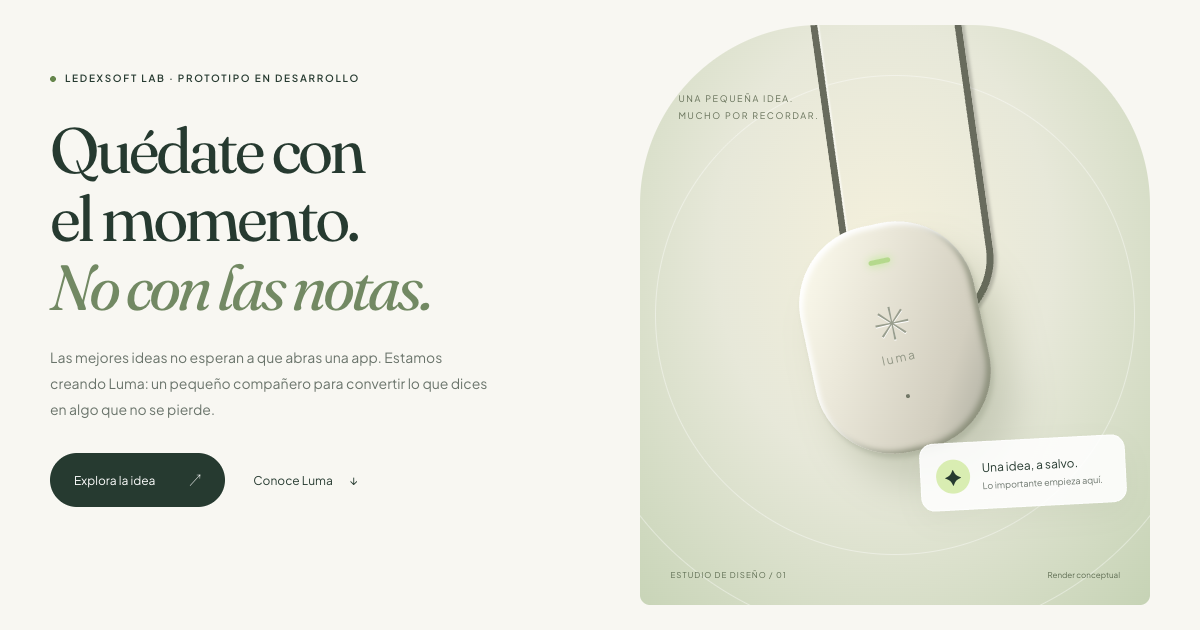
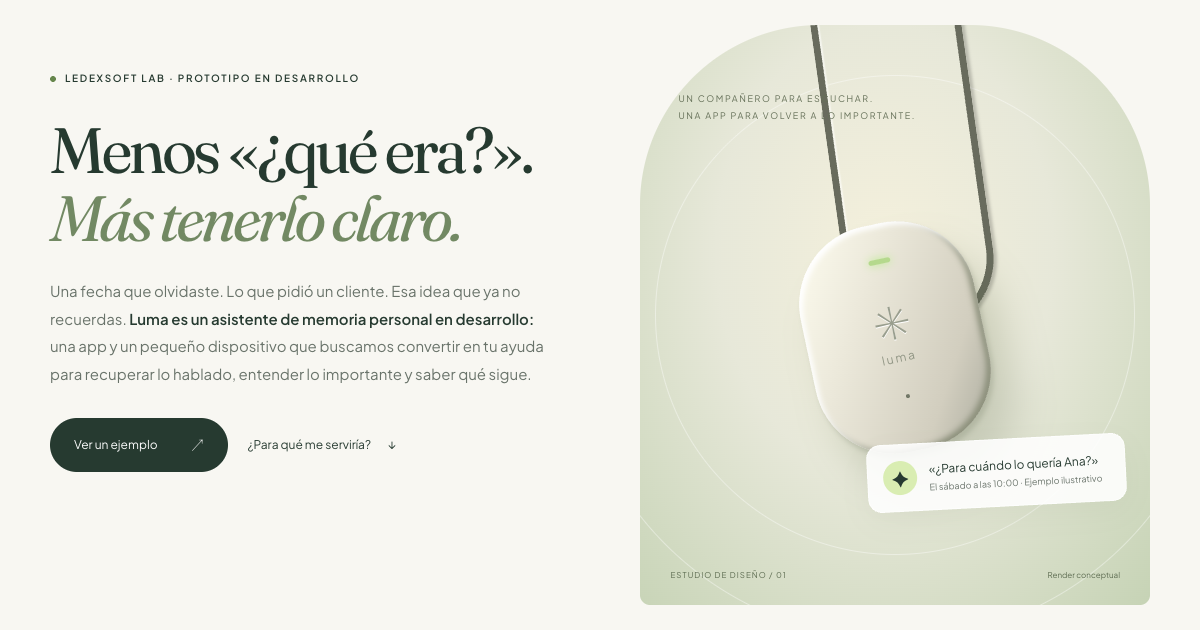
feat: reframe Luma around everyday use cases and demo evidence

diff --git a/luma.html b/luma.html
@@ -2,27 +2,36 @@
 <html lang="es">
 <head>
 <meta charset="utf-8"><meta name="viewport" content="width=device-width, initial-scale=1">
-<title>Luma — Quédate con el momento · LedexSoft</title>
-<meta name="description" content="Conoce Luma, el prototipo de asistente personal de LedexSoft: conversaciones que se convierten en recuerdos, claridad y próximos pasos.">
+<title>Luma — Recuerda lo que importa. Sigue con tu día. · LedexSoft</title>
+<meta name="description" content="Luma, el asistente de memoria en desarrollo de LedexSoft: descubre cómo convertir conversaciones con clientes, clases e ideas en resúmenes y próximos pasos.">
 <link rel="canonical" href="https://ledexsoft.com/luma.html">
-<meta property="og:type" content="website"><meta property="og:site_name" content="LedexSoft"><meta property="og:title" content="Luma — Quédate con el momento"><meta property="og:description" content="Una nueva idea de memoria personal. Descubre el prototipo de LedexSoft."><meta property="og:url" content="https://ledexsoft.com/luma.html"><meta property="og:image" content="https://ledexsoft.com/images/luma-social.png"><meta name="twitter:card" content="summary_large_image">
+<meta property="og:type" content="website"><meta property="og:site_name" content="LedexSoft"><meta property="og:title" content="Luma — Recuerda lo que importa. Sigue con tu día."><meta property="og:description" content="Del «¿qué habíamos acordado?» al siguiente paso. Explora cómo Luma podría ayudarte con clientes, clases y pendientes."><meta property="og:url" content="https://ledexsoft.com/luma.html"><meta property="og:image" content="https://ledexsoft.com/images/luma-social.png"><meta name="twitter:card" content="summary_large_image">
 <link rel="icon" href="favicon.svg" type="image/svg+xml"><link rel="stylesheet" href="css/fonts.css"><link rel="stylesheet" href="css/luma.css"><script src="js/luma.js" defer></script>
 </head>
 <body>
 <a class="skip" href="#contenido">Saltar al contenido</a>
-<header class="nav"><a class="brand" href="luma.html" aria-label="Luma, inicio"><span class="brand-symbol" aria-hidden="true">✳</span> luma<span class="by">by LedexSoft</span></a><button class="menu-toggle" type="button" aria-label="Abrir menú" aria-controls="lumaNav" aria-expanded="false"><span></span><span></span></button><nav id="lumaNav" aria-label="Principal"><a href="#idea">La idea</a><a href="#experiencia">La experiencia</a><a href="#preguntas">Preguntas</a></nav><a class="nav-cta" href="#futuro">Sigue de cerca <span aria-hidden="true">↗</span></a></header>
+<header class="nav"><a class="brand" href="luma.html" aria-label="Luma, inicio"><span class="brand-symbol" aria-hidden="true">✳</span> luma<span class="by">by LedexSoft</span></a><button class="menu-toggle" type="button" aria-label="Abrir menú" aria-controls="lumaNav" aria-expanded="false"><span></span><span></span></button><nav id="lumaNav" aria-label="Principal"><a href="#casos">En tu día a día</a><a href="#experiencia">Prueba la demo</a><a href="#como">Cómo funcionaría</a><a href="#preguntas">Preguntas</a></nav><a class="nav-cta" href="#futuro">Cuéntanos tu caso <span aria-hidden="true">↗</span></a></header>
 <main id="contenido">
 <section class="hero">
-<div class="hero-copy"><span class="eyebrow"><i></i> LEDEXSOFT LAB · PROTOTIPO EN DESARROLLO</span><h1>Quédate con<br>el momento.<br><em>No con las notas.</em></h1><p>Las mejores ideas no esperan a que abras una app. Estamos creando Luma: un pequeño compañero para convertir lo que dices en algo que no se pierde.</p><div class="actions"><a class="button" href="#experiencia">Explora la idea <span aria-hidden="true">↗</span></a><a class="text-link" href="#idea">Conoce Luma <span aria-hidden="true">↓</span></a></div><div class="hero-note"><span class="mini-spark">✳</span> Menos pantalla. Más aquí y ahora.</div></div>
-<div class="hero-art" role="img" aria-label="Ilustración conceptual de un colgante Luma color piedra, con indicador luminoso verde"><span class="art-label">UNA PEQUEÑA IDEA.<br>MUCHO POR RECORDAR.</span><div class="orbit orbit-one"></div><div class="orbit orbit-two"></div><div class="cord"></div><div class="pendant"><div class="pendant-light"></div><span class="pendant-logo">✳</span><span class="pendant-name">luma</span><span class="mic"></span></div><div class="floating-note"><span class="note-icon">✦</span><div>Una idea, a salvo.<small>Lo importante empieza aquí.</small></div></div><span class="art-foot">ESTUDIO DE DISEÑO / 01 <span>Render conceptual</span></span></div>
+<div class="hero-copy"><span class="eyebrow"><i></i> LEDEXSOFT LAB · PROTOTIPO EN DESARROLLO</span><h1>Menos «¿qué era?».<br><em>Más tenerlo claro.</em></h1><p>Una fecha que olvidaste. Lo que pidió un cliente. Esa idea que ya no recuerdas. <strong>Luma es un asistente de memoria personal en desarrollo:</strong> una app y un pequeño dispositivo que buscamos convertir en tu ayuda para recuperar lo hablado, entender lo importante y saber qué sigue.</p><div class="actions"><a class="button" href="#experiencia">Ver un ejemplo <span aria-hidden="true">↗</span></a><a class="text-link" href="#casos">¿Para qué me serviría? <span aria-hidden="true">↓</span></a></div><div class="hero-note"><span class="mini-spark">✳</span> Conversaciones → recuerdos consultables → próximos pasos.</div></div>
+<div class="hero-art" role="img" aria-label="Ilustración conceptual de un colgante Luma color piedra, con indicador luminoso verde"><span class="art-label">UN COMPAÑERO PARA ESCUCHAR.<br>UNA APP PARA VOLVER A LO IMPORTANTE.</span><div class="orbit orbit-one"></div><div class="orbit orbit-two"></div><div class="cord"></div><div class="pendant"><div class="pendant-light"></div><span class="pendant-logo">✳</span><span class="pendant-name">luma</span><span class="mic"></span></div><div class="floating-note"><span class="note-icon">✦</span><div>«¿Para cuándo lo quería Ana?»<small>El sábado a las 10:00 · Ejemplo ilustrativo</small></div></div><span class="art-foot">ESTUDIO DE DISEÑO / 01 <span>Render conceptual</span></span></div>
 </section>
-<div class="promise-strip"><span>Tu voz como punto de partida</span><span aria-hidden="true">✳</span><span>Tu memoria, con contexto</span><span aria-hidden="true">✳</span><span>Tu día, con más espacio</span></div>
-<section class="intro section" id="idea"><span class="eyebrow">01 / UNA MEMORIA MÁS HUMANA</span><div><h2>Hay cosas que merecen<br>quedarse <em>contigo.</em></h2><p>Ese acuerdo al final de una reunión. La idea que apareció caminando. El detalle que te prometiste recordar. Luma nace para ayudarte a volver a ellos, sin dejar de vivir lo que pasa delante de ti.</p></div></section>
-<section class="features section" aria-label="Funciones que estamos explorando"><article><span class="feature-number">01 — CAPTURA</span><span class="feature-icon" aria-hidden="true">≋</span><h3>Deja fluir la conversación.</h3><p>Exploramos una experiencia de captura de voz desde el móvil y un wearable, con control consciente sobre cuándo empieza y termina.</p></article><article><span class="feature-number">02 — COMPRENDE</span><span class="feature-icon" aria-hidden="true">✧</span><h3>Encuentra lo esencial.</h3><p>Resúmenes, ideas y acuerdos en un lugar. Una visión más clara de lo que se habló, sin volver a escuchar todo.</p></article><article><span class="feature-number">03 — RECUERDA</span><span class="feature-icon" aria-hidden="true">↗</span><h3>Convierte ideas en pasos.</h3><p>Consulta tus recuerdos con preguntas naturales y recupera las tareas que surgieron en la conversación.</p></article></section>
-<section class="experience section" id="experiencia"><div class="experience-copy"><span class="eyebrow">02 / ASÍ LO IMAGINAMOS</span><h2>Tu día.<br>Un poco más <em>claro.</em></h2><p>De una conversación a lo que importa. Prueba esta muestra de la experiencia que queremos construir.</p><div class="scenarios" role="group" aria-label="Elegir conversación de ejemplo"><button class="scenario active" data-scene="reunion" aria-pressed="true"><span>01</span> Una reunión de equipo <b>↗</b></button><button class="scenario" data-scene="idea" aria-pressed="false"><span>02</span> Una idea en el camino <b>↗</b></button><button class="scenario" data-scene="estudio" aria-pressed="false"><span>03</span> Una sesión de estudio <b>↗</b></button></div><p class="demo-disclaimer">Demo ilustrativa con contenido ficticio. No activa el micrófono, no graba ni envía tus conversaciones.</p></div><div class="app-demo"><div class="app-top"><span class="brand"><span class="brand-symbol">✳</span> luma</span><span class="demo-pill">VISTA CONCEPTUAL</span></div><div class="app-greeting">Un momento para volver a él.</div><div class="memory-heading"><span id="scene-meta">HOY · 10:30 · 18 MIN</span><h3 id="scene-title">Las ideas ya tienen rumbo.</h3><div class="wave" aria-hidden="true"><i></i><i></i><i></i><i></i><i></i><i></i><i></i><i></i><i></i><i></i><i></i><i></i><i></i><i></i><i></i><i></i><i></i><i></i><i></i><i></i><i></i><i></i><i></i><i></i></div></div><div class="demo-tabs" role="group" aria-label="Ver contenido del recuerdo"><button data-view="resumen" class="active" aria-pressed="true">Resumen</button><button data-view="tareas" aria-pressed="false">Próximos pasos</button></div><div class="demo-content" id="demo-content" aria-live="polite"><span class="content-label">LO ESENCIAL</span><p>El equipo acordó simplificar la primera versión y centrarse en una experiencia de bienvenida más clara.</p><ul><li>Priorizar tres funciones principales.</li><li>Revisar el diseño antes del viernes.</li><li>Probar la propuesta con un grupo pequeño.</li></ul></div><div class="demo-bottom"><span>✧</span> Menos ruido. Más contexto.</div></div></section>
-<section class="quote-section"><span class="eyebrow">TECNOLOGÍA QUE DEJA ESPACIO</span><h2>No necesitas recordarlo todo.<br>Necesitas estar <em>presente.</em></h2><span class="quote-star" aria-hidden="true">✳</span></section>
+<div class="promise-strip"><span>Recuperar un acuerdo</span><span aria-hidden="true">✳</span><span>Salir con un siguiente paso</span><span aria-hidden="true">✳</span><span>Encontrar una idea después</span></div>
+<section class="intro section" id="idea"><span class="eyebrow">TE SUENA, ¿VERDAD?</span><div><h2>No es falta de atención.<br>Es <em>demasiado que retener.</em></h2><p>Escuchas, respondes y sigues con tu día. Horas después, el detalle que parecía imposible de olvidar ya no está. Luma nace para cerrar ese espacio entre una conversación y lo que haces con ella.</p></div></section>
+<section class="pain-grid section" aria-label="Problemas cotidianos"><article><span>01 / LOS DETALLES</span><h3>«¿Me dijo el jueves o el viernes?»</h3><p>Buscar entre audios y mensajes no debería ser el último paso antes de entregar un pedido.</p><b>La idea: recuperar el acuerdo, con su contexto.</b></article><article><span>02 / LOS COMPROMISOS</span><h3>«Quedé en enviárselo. Y se me pasó.»</h3><p>Un compromiso puede perderse entre el final de una llamada y la siguiente cosa urgente.</p><b>La idea: hacer visibles los próximos pasos.</b></article><article><span>03 / LA ATENCIÓN</span><h3>«Estaba anotando y perdí el hilo.»</h3><p>En una clase o una reunión, escribir cada frase compite con entender lo que estás escuchando.</p><b>La idea: volver a lo esencial después.</b></article></section>
+<section class="use-cases section" id="casos"><div class="section-heading"><span class="eyebrow">CINCO MOMENTOS EN LOS QUE TENDRÍA SENTIDO</span><h2>No para recordar más.<br>Para <em>vivir menos pendiente.</em></h2><p>Estos escenarios ilustran la utilidad que buscamos construir. Elige el que más se parece a tu día y explóralo en la demo.</p></div><div class="case-grid">
+<article><span class="case-icon">↗</span><span class="eyebrow">TRABAJO · REUNIONES</span><h3>Termina la reunión.<br>No empieces a reconstruirla.</h3><p><strong>Hoy:</strong> cada persona recuerda un acuerdo distinto y nadie tiene claro quién debía hacer qué.</p><div class="case-result"><span>CON LUMA, LA IDEA ES</span><p>Volver a las decisiones, responsables y fechas que se mencionaron. Revisarlas antes de compartirlas.</p></div><a href="#experiencia" data-case="reunion">Ver el acuerdo y la tarea ↗</a></article>
+<article><span class="case-icon">◎</span><span class="eyebrow">NEGOCIO · CLIENTES</span><h3>Atiende a la persona.<br>Sin perder los detalles del pedido.</h3><p><strong>Hoy:</strong> te dicen cantidad, sabor y hora mientras estás resolviendo otras tres cosas.</p><div class="case-result"><span>CON LUMA, LA IDEA ES</span><p>Consultar «¿qué pidió Ana?» y recuperar los detalles de esa conversación, sin buscarlos en diez notas.</p></div><a href="#experiencia" data-case="cliente">Ver un pedido de ejemplo ↗</a></article>
+<article><span class="case-icon">≋</span><span class="eyebrow">ESTUDIO · CLASES</span><h3>Escucha para entender.<br>Vuelve después para repasar.</h3><p><strong>Hoy:</strong> copiar deprisa deja apuntes incompletos y preguntas que ya no recuerdas.</p><div class="case-result"><span>CON LUMA, LA IDEA ES</span><p>Consultar los conceptos tratados y las tareas mencionadas. Usar el resumen como apoyo, no como sustituto de estudiar.</p></div><a href="#experiencia" data-case="estudio">Explorar una sesión de estudio ↗</a></article>
+<article><span class="case-icon">⌂</span><span class="eyebrow">VIDA DIARIA · PENDIENTES</span><h3>Que un «yo me encargo»<br>no se quede en el aire.</h3><p><strong>Hoy:</strong> prometes recoger algo o llamar a alguien y lo recuerdas cuando ya pasó el momento.</p><div class="case-result"><span>CON LUMA, LA IDEA ES</span><p>Revisar los compromisos que surgieron al hablar y decidir cuáles convertir en tareas.</p></div><a href="#experiencia" data-case="personal">Ver un pendiente cotidiano ↗</a></article>
+<article class="case-wide"><span class="case-icon">✧</span><span class="eyebrow">CREATIVIDAD · IDEAS AL VUELO</span><h3>La buena idea no siempre<br>llega delante del teclado.</h3><p><strong>Hoy:</strong> aparece caminando, piensas «luego lo anoto» y al llegar solo recuerdas que era buena.</p><div class="case-result"><span>CON LUMA, LA IDEA ES</span><p>Decirla en voz alta, guardarla con contexto y encontrar un primer paso cuando tengas tiempo de desarrollarla.</p></div><a href="#experiencia" data-case="idea">Recuperar una idea ↗</a></article>
+</div></section>
+<section class="how section" id="como"><div class="section-heading"><span class="eyebrow">DEL MOMENTO AL RECUERDO</span><h2>Así encajaría<br>en <em>tu rutina.</em></h2><p>El dispositivo sería el punto de captura; la app, el lugar donde revisar y consultar. Este es el flujo que estamos diseñando.</p></div><ol class="how-grid"><li><span>01</span><h3>Eliges qué guardar.</h3><p>Iniciarías la captura desde el móvil o el wearable, con conocimiento y permiso de quienes participan. No se trata de grabarlo todo.</p></li><li><span>02</span><h3>Hablas. Luego revisas.</h3><p>Al terminar, la app organizaría lo hablado en un resumen y posibles tareas. Tú revisarías nombres, fechas y detalles.</p></li><li><span>03</span><h3>Preguntas cuando lo necesitas.</h3><p>«¿Qué quedé en enviar?» o «¿qué pidió Ana?». La meta es recuperar una respuesta vinculada a la conversación de origen.</p></li></ol></section>
+<section class="experience section" id="experiencia"><div class="experience-copy"><span class="eyebrow">PRUÉBALO CON UNA CONVERSACIÓN DE EJEMPLO</span><h2>Lo que se dijo.<br>Lo que <em>te llevas.</em></h2><p>Elige una situación. Lee el fragmento original y cambia entre resumen, próximos pasos y una pregunta de ejemplo. Así puedes ver para qué serviría, no solo imaginarlo.</p><div class="scenarios" role="group" aria-label="Elegir conversación de ejemplo"><button class="scenario active" data-scene="reunion" aria-pressed="true"><span>01</span> Una reunión de equipo <b>↗</b></button><button class="scenario" data-scene="cliente" aria-pressed="false"><span>02</span> Un pedido de una clienta <b>↗</b></button><button class="scenario" data-scene="personal" aria-pressed="false"><span>03</span> Un pendiente familiar <b>↗</b></button><button class="scenario" data-scene="idea" aria-pressed="false"><span>04</span> Una idea en el camino <b>↗</b></button><button class="scenario" data-scene="estudio" aria-pressed="false"><span>05</span> Una sesión de estudio <b>↗</b></button></div><p class="demo-disclaimer">Demo ilustrativa con contenido ficticio. No activa el micrófono, no graba ni envía tus conversaciones.</p></div><div class="app-demo"><div class="app-top"><span class="brand"><span class="brand-symbol">✳</span> luma</span><span class="demo-pill">VISTA CONCEPTUAL</span></div><div class="app-greeting">De la conversación a una respuesta útil.</div><div class="source-fragment"><span class="content-label">LO QUE SE DIJO · EJEMPLO FICTICIO</span><blockquote id="scene-source">«Marta, envía el diseño el jueves. Diego lo revisa el viernes. Para esta versión nos quedamos con tres funciones.»</blockquote></div><div class="memory-heading"><span id="scene-meta">HOY · 10:30 · 18 MIN</span><h3 id="scene-title">El diseño tiene fecha y responsable.</h3><div class="wave" aria-hidden="true"><i></i><i></i><i></i><i></i><i></i><i></i><i></i><i></i><i></i><i></i><i></i><i></i><i></i><i></i><i></i><i></i><i></i><i></i><i></i><i></i><i></i><i></i><i></i><i></i></div></div><div class="demo-tabs" role="group" aria-label="Ver contenido del recuerdo"><button data-view="resumen" class="active" aria-pressed="true">Resumen</button><button data-view="tareas" aria-pressed="false">Próximos pasos</button><button data-view="pregunta" aria-pressed="false">Pregúntale a Luma</button></div><div class="demo-content" id="demo-content" aria-live="polite"><span class="content-label">LO ESENCIAL</span><p>Marta enviará el diseño el jueves y Diego lo revisará el viernes. La primera versión se limitará a tres funciones.</p><ul><li>Alcance: tres funciones en la primera versión.</li><li>Entrega del diseño: Marta, el jueves.</li><li>Revisión: Diego, el viernes.</li></ul></div><div class="demo-bottom"><span>✧</span> Contenido preparado · Revisa siempre los detalles.</div></div></section>
+<section class="day-section section"><div class="section-heading"><span class="eyebrow">UNA JORNADA, MENOS CABOS SUELTOS</span><h2>Su valor no está en grabar.<br>Está en <em>poder volver.</em></h2></div><div class="day-grid"><article><time>09:00</time><h3>Hablas con un cliente.</h3><p>Con su permiso, guardas lo que acuerdan. Sigues atendiendo, sin intentar retener cada detalle.</p></article><article><time>13:30</time><h3>Necesitas confirmar una fecha.</h3><p>Preguntas por ese pedido y vuelves al acuerdo original, en lugar de reconstruirlo de memoria.</p></article><article><time>18:00</time><h3>Cierras el día con claridad.</h3><p>Revisas los pendientes detectados, corriges lo que haga falta y eliges por dónde empezar mañana.</p></article></div><p class="section-caption">Recorrido ilustrativo de la experiencia prevista; no describe funciones disponibles hoy.</p></section>
+<section class="comparison section"><div class="section-heading"><span class="eyebrow">¿POR QUÉ NO SOLO UNA NOTA DE VOZ?</span><h2>Guardar es el principio.<br><em>Encontrar es lo que ayuda.</em></h2></div><div class="comparison-grid"><article><span class="eyebrow">UN AUDIO GUARDADO</span><h3>La información está ahí.<br>Te toca buscarla.</h3><ul><li>Volver a escuchar para encontrar un detalle.</li><li>Separar tú las ideas de los acuerdos.</li><li>Pasar manualmente los pendientes a una lista.</li></ul></article><article><span class="eyebrow">LA EXPERIENCIA QUE BUSCAMOS CON LUMA</span><h3>Ir de una pregunta<br>a un recuerdo concreto.</h3><ul><li>Encontrar el detalle y su conversación de origen.</li><li>Revisar un resumen de lo importante.</li><li>Partir de tareas sugeridas, no de una hoja en blanco.</li></ul></article></div><p class="section-caption">La IA puede omitir o interpretar mal algo. Luma se plantea como apoyo a tu memoria, no como una fuente infalible ni un sustituto de confirmar acuerdos.</p></section>
 <section class="privacy section"><div><span class="eyebrow">03 / CONSTRUIR CON INTENCIÓN</span><h2>Una memoria personal.<br>Énfasis en <em>personal.</em></h2></div><div><p>La confianza no es una función extra. Estos son los principios que guían el diseño de Luma; su implementación forma parte del desarrollo.</p><ul><li><b>Captura con consentimiento.</b><span>Queremos controles claros para iniciar y detener la grabación, y una experiencia que recuerde respetar a quienes participan.</span></li><li><b>Tú decides qué se queda.</b><span>Diseñamos pensando en revisar, gestionar y eliminar tus recuerdos.</span></li><li><b>Claridad desde el principio.</b><span>Antes de abrir pruebas con datos reales, explicaremos cómo se procesan, dónde se guardan y qué servicios intervienen.</span></li></ul></div></section>
-<section class="faq section" id="preguntas"><div><span class="eyebrow">UN POCO MÁS DE CONTEXTO</span><h2>Lo que quizás<br>te <em>preguntas.</em></h2></div><div class="faq-list"><details open><summary>¿Qué es Luma?</summary><p>Es un prototipo en desarrollo de LedexSoft que explora un asistente personal de voz y memoria: capturar conversaciones con permiso, resumirlas y recuperar ideas o tareas. Esta página presenta la visión, no un producto terminado.</p></details><details><summary>¿Ya puedo comprarlo o descargarlo?</summary><p>Todavía no. No hay ventas, reservas, precio ni fecha de lanzamiento confirmados. El dispositivo mostrado es una ilustración conceptual; el diseño final puede cambiar.</p></details><details><summary>¿Necesitaré un dispositivo?</summary><p>Estamos explorando la combinación de una app y un wearable. La compatibilidad, las plataformas y los requisitos técnicos aún no están definidos.</p></details><details><summary>¿La demo utiliza inteligencia artificial real?</summary><p>No. Es una muestra interactiva con ejemplos preparados para explicar la experiencia. No graba audio, no pide permisos de micrófono y no conecta con un modelo de IA.</p></details><details><summary>¿Cómo puedo aportar una idea?</summary><p>Escríbenos a <a href="mailto:contacto@ledexsoft.com?subject=Una%20idea%20para%20Luma">contacto@ledexsoft.com</a>. Nos interesa saber qué te gustaría recordar mejor y en qué momentos te sería útil Luma.</p></details></div></section>
-<section class="closing section" id="futuro"><span class="eyebrow"><i></i> LO PRÓXIMO ESTÁ TOMANDO FORMA</span><h2>Las buenas ideas<br>empiezan con <em>una conversación.</em></h2><p>Luma está creciendo. Si te interesa el proyecto, nos encantará escucharte.</p><a class="button" href="mailto:contacto@ledexsoft.com?subject=Quiero%20saber%20m%C3%A1s%20sobre%20Luma">Hablemos de Luma <span aria-hidden="true">↗</span></a><small>Abre tu correo · Sin reservas ni pagos</small></section>
+<section class="faq section" id="preguntas"><div><span class="eyebrow">UN POCO MÁS DE CONTEXTO</span><h2>Lo que quizás<br>te <em>preguntas.</em></h2></div><div class="faq-list"><details open><summary>¿Qué es Luma?</summary><p>Es un prototipo en desarrollo de LedexSoft que explora un asistente personal de voz y memoria: capturar conversaciones con permiso, resumirlas y recuperar ideas o tareas. Esta página presenta la visión, no un producto terminado.</p></details><details><summary>¿Ya puedo comprarlo o descargarlo?</summary><p>Todavía no. No hay ventas, reservas, precio ni fecha de lanzamiento confirmados. El dispositivo mostrado es una ilustración conceptual; el diseño final puede cambiar.</p></details><details><summary>¿Luma grabaría todo el día?</summary><p>No es la experiencia que planteamos. Queremos que elijas cuándo iniciar y detener la captura, y que todas las personas sepan y acepten que se está grabando. La forma final de estos controles aún está en desarrollo.</p></details><details><summary>¿Enviaría mensajes o crearía recordatorios automáticamente?</summary><p>Los próximos pasos de la demo son sugerencias para revisar. No envían mensajes, no crean eventos ni activan recordatorios. Las integraciones y automatizaciones del producto aún no están definidas.</p></details><details><summary>¿Necesitaré un dispositivo?</summary><p>Estamos explorando la combinación de una app y un wearable. La compatibilidad, las plataformas y los requisitos técnicos aún no están definidos.</p></details><details><summary>¿La demo utiliza inteligencia artificial real?</summary><p>No. Es una muestra interactiva con ejemplos preparados para explicar la experiencia. No graba audio, no pide permisos de micrófono y no conecta con un modelo de IA.</p></details><details><summary>¿Cómo puedo aportar una idea?</summary><p>Escríbenos a <a href="mailto:contacto@ledexsoft.com?subject=Una%20idea%20para%20Luma">contacto@ledexsoft.com</a>. Nos interesa saber qué te gustaría recordar mejor y en qué momentos te sería útil Luma.</p></details></div></section>
+<section class="closing section" id="futuro"><span class="eyebrow"><i></i> LO PRÓXIMO ESTÁ TOMANDO FORMA</span><h2>¿Qué te gustaría<br>dejar de <em>olvidar?</em></h2><p>¿Pedidos de clientes, acuerdos de trabajo o ideas que se escapan? Cuéntanos una situación real. Nos ayudará a construir algo que encaje en tu día.</p><a class="button" href="mailto:contacto@ledexsoft.com?subject=Quiero%20saber%20m%C3%A1s%20sobre%20Luma">Contar mi caso de uso <span aria-hidden="true">↗</span></a><small>Abre tu correo · Sin reservas ni pagos</small></section>
 </main><footer><a class="brand" href="index.html">Ledex<em>Soft</em><span aria-hidden="true">↗</span></a><p>Luma · Una exploración de LedexSoft.<br>Prototipo en desarrollo. Diseño y funciones sujetos a cambios.</p><a href="#contenido">Volver arriba ↑</a></footer>
 </body></html>

diff --git a/js/luma.js b/js/luma.js
@@ -1,10 +1,102 @@
 'use strict';
 (() => {
   const scenes = {
-    reunion: { meta: 'HOY · 10:30 · 18 MIN', title: 'Las ideas ya tienen rumbo.', summary: 'El equipo acordó simplificar la primera versión y centrarse en una experiencia de bienvenida más clara.', points: ['Priorizar tres funciones principales.', 'Revisar el diseño antes del viernes.', 'Probar la propuesta con un grupo pequeño.'], tasks: ['Preparar una propuesta de bienvenida.', 'Compartir el diseño con el equipo.', 'Organizar la próxima sesión de pruebas.'] },
-    idea: { meta: 'HOY · 17:15 · 2 MIN', title: 'Una caminata. Una nueva idea.', summary: 'Una nota de voz para no perder una idea: conectar a los productores del barrio con quienes buscan productos frescos cerca de casa.', points: ['Comenzar por un solo barrio.', 'Mostrar disponibilidad y horarios.', 'Conversar con los negocios antes de diseñar.'], tasks: ['Anotar tres negocios para entrevistar.', 'Dibujar el recorrido de un primer pedido.', 'Preparar preguntas sobre entregas y horarios.'] },
-    estudio: { meta: 'AYER · 16:00 · 35 MIN', title: 'Aprender, sin perder el hilo.', summary: 'La sesión repasó cómo las plantas transforman la luz en energía química y por qué ese proceso sostiene los ecosistemas.', points: ['La clorofila absorbe energía luminosa.', 'El proceso utiliza agua y dióxido de carbono.', 'Se producen azúcares y se libera oxígeno.'], tasks: ['Repasar las etapas de la fotosíntesis.', 'Dibujar un esquema del cloroplasto.', 'Preparar tres preguntas para la próxima clase.'] }
-  };
+  "reunion": {
+    "meta": "REUNIÓN DE EQUIPO · FRAGMENTO 02:14",
+    "title": "El diseño tiene fecha y responsable.",
+    "source": "«Marta, envía el diseño el jueves. Diego lo revisa el viernes. Para esta versión nos quedamos con tres funciones.»",
+    "summary": "Marta enviará el diseño el jueves y Diego lo revisará el viernes. La primera versión se limitará a tres funciones.",
+    "points": [
+      "Alcance: tres funciones en la primera versión.",
+      "Entrega del diseño: Marta, el jueves.",
+      "Revisión: Diego, el viernes."
+    ],
+    "tasks": [
+      "Marta: enviar el diseño el jueves.",
+      "Diego: revisar el diseño el viernes.",
+      "Equipo: mantener el alcance en tres funciones."
+    ],
+    "question": "¿Quién revisa el diseño y cuándo?",
+    "answer": "Diego lo revisa el viernes. Marta debe enviarlo el jueves.",
+    "benefit": "Sabrías a quién consultar y qué fecha confirmar, sin reconstruir toda la reunión."
+  },
+  "cliente": {
+    "meta": "PEDIDO DE ANA · FRAGMENTO 00:38",
+    "title": "Un pedido con sus detalles.",
+    "source": "«Soy Ana. Quería una tarta de chocolate para ocho personas, sin nueces. La recojo el sábado a las diez. ¿Me confirmas mañana el precio?»",
+    "summary": "Ana pide una tarta de chocolate para ocho personas, sin nueces. La recogería el sábado a las 10:00 y espera confirmación del precio mañana.",
+    "points": [
+      "Producto: tarta de chocolate para ocho personas.",
+      "Petición: sin nueces; confirmar requisitos con Ana.",
+      "Recogida: sábado a las 10:00."
+    ],
+    "tasks": [
+      "Confirmar mañana el precio con Ana.",
+      "Verificar con Ana sus requisitos sobre las nueces.",
+      "Confirmar la recogida del sábado a las 10:00."
+    ],
+    "question": "¿Qué pidió Ana y cuándo lo recoge?",
+    "answer": "Una tarta de chocolate para ocho personas, sin nueces, para recoger el sábado a las 10:00. Falta confirmar el precio.",
+    "benefit": "Tendrías los detalles juntos antes de responder o preparar el pedido."
+  },
+  "personal": {
+    "meta": "CONVERSACIÓN EN CASA · FRAGMENTO 01:06",
+    "title": "Ese «yo me encargo», a la vista.",
+    "source": "«Yo recojo el paquete mañana antes de las seis. Tú llama al técnico y pregúntale si puede venir el martes por la mañana.»",
+    "summary": "Una persona se compromete a recoger el paquete mañana antes de las 18:00 y pide a la otra consultar disponibilidad con el técnico.",
+    "points": [
+      "Paquete: mañana antes de las 18:00.",
+      "Técnico: consultar el martes por la mañana.",
+      "No se mencionaron nombres de los responsables."
+    ],
+    "tasks": [
+      "Asignar quién recoge el paquete mañana.",
+      "Asignar quién llama al técnico.",
+      "Consultar disponibilidad; la visita aún no está confirmada."
+    ],
+    "question": "¿El técnico viene el martes?",
+    "answer": "Todavía no está confirmado. Se propuso preguntarle si puede venir el martes por la mañana.",
+    "benefit": "Distinguirías una propuesta de una cita confirmada antes de organizar tu día."
+  },
+  "idea": {
+    "meta": "NOTA PERSONAL · FRAGMENTO 00:12",
+    "title": "La idea sigue aquí cuando vuelves.",
+    "source": "«Una cesta semanal con productos del barrio. Podría empezar con dos tiendas y recogida los viernes. Antes de hacer una app, preguntar a cinco vecinos si les serviría.»",
+    "summary": "Propuesta de una cesta semanal de productos locales: comenzar con dos tiendas y recogida los viernes, validando primero el interés de los vecinos.",
+    "points": [
+      "Formato: cesta semanal de productos del barrio.",
+      "Prueba inicial: dos tiendas, recogida los viernes.",
+      "Validación: conversar con cinco vecinos antes de crear la app."
+    ],
+    "tasks": [
+      "Preguntar a cinco vecinos si les serviría.",
+      "Explorar la idea con dos tiendas.",
+      "Validar la propuesta antes de desarrollar una app."
+    ],
+    "question": "¿Qué quería probar antes de crear la app?",
+    "answer": "Preguntar a cinco vecinos si les serviría una cesta semanal de productos del barrio.",
+    "benefit": "Recuperarías no solo la idea, sino el primer paso que pensaste para probarla."
+  },
+  "estudio": {
+    "meta": "SESIÓN DE ESTUDIO · FRAGMENTO 04:20",
+    "title": "Del apunte incompleto al repaso.",
+    "source": "«La clorofila absorbe luz. La planta utiliza agua y dióxido de carbono para producir azúcares y libera oxígeno. Para el lunes, dibujen el proceso e identifiquen entradas y salidas.»",
+    "summary": "La sesión explica el papel de la luz, el agua y el dióxido de carbono en la fotosíntesis. Para el lunes se pide un esquema de entradas y salidas.",
+    "points": [
+      "La clorofila absorbe luz.",
+      "Entradas mencionadas: agua y dióxido de carbono.",
+      "Productos mencionados: azúcares y oxígeno."
+    ],
+    "tasks": [
+      "Preparar el esquema para el lunes.",
+      "Identificar agua y dióxido de carbono como entradas.",
+      "Identificar azúcares y oxígeno como productos."
+    ],
+    "question": "¿Qué había que entregar el lunes?",
+    "answer": "Un dibujo del proceso de fotosíntesis que identifique sus entradas y salidas.",
+    "benefit": "Separarías lo que debes repasar de lo que debes entregar."
+  }
+};
   let scene = 'reunion';
   let view = 'resumen';
   let renderedScene = scene;
@@ -45,18 +137,22 @@
     const data = scenes[scene];
     document.getElementById('scene-meta').textContent = data.meta;
     document.getElementById('scene-title').textContent = data.title;
+    document.getElementById('scene-source').textContent = data.source;
     const label = document.createElement('span');
     label.className = 'content-label';
-    label.textContent = view === 'resumen' ? 'LO ESENCIAL' : 'DE LA IDEA A LA ACCIÓN';
+    label.textContent = view === 'resumen' ? 'LO ESENCIAL' : view === 'tareas' ? 'TAREAS SUGERIDAS · PARA REVISAR' : data.question;
     const paragraph = document.createElement('p');
-    paragraph.textContent = view === 'resumen' ? data.summary : 'Posibles tareas extraídas de esta conversación de ejemplo:';
+    paragraph.textContent = view === 'resumen' ? data.summary : view === 'tareas' ? 'Nada se ejecuta automáticamente. Estos serían los próximos pasos a revisar:' : data.answer;
     const list = document.createElement('ul');
-    (view === 'resumen' ? data.points : data.tasks).forEach(text => {
+    (view === 'resumen' ? data.points : view === 'tareas' ? data.tasks : ['Fuente: ' + data.meta, 'Respuesta preparada para esta demo; no es una consulta de IA en vivo.']).forEach(text => {
       const item = document.createElement('li');
       item.textContent = text;
       list.append(item);
     });
-    document.getElementById('demo-content').replaceChildren(label, paragraph, list);
+    const benefit = document.createElement('p');
+    benefit.className = 'demo-benefit';
+    benefit.textContent = data.benefit;
+    document.getElementById('demo-content').replaceChildren(label, paragraph, list, benefit);
     syncControls();
   };
   const render = () => {
@@ -90,5 +186,7 @@
     else renderTimer = window.setTimeout(update, 160);
   };
   document.querySelectorAll('[data-scene]').forEach(button => button.addEventListener('click', () => { scene = button.dataset.scene; render(); }));
+  document.querySelectorAll('[data-case]').forEach(link => link.addEventListener('click', () => { scene = link.dataset.case; view = 'resumen'; render(); }));
+  paintDemo();
   document.querySelectorAll('[data-view]').forEach(button => button.addEventListener('click', () => { view = button.dataset.view; render(); }));
 })();

diff --git a/css/luma.css b/css/luma.css
@@ -34,3 +34,14 @@
   .actions{gap:16px}
   .button{gap:18px;padding:16px 18px}
 }
+
+/* Everyday utility: concrete situations, source evidence and outcomes. */
+.hero h1{font-size:clamp(48px,5.2vw,78px)}
+.hero-copy>p{max-width:510px;font-size:15px}.hero-copy>p strong{font-weight:600;color:var(--ink)}
+.hero-note{line-height:1.7}.actions{flex-wrap:wrap;gap:20px}.floating-note{max-width:calc(100% - 40px)}
+.section-heading{max-width:780px;margin-bottom:42px}.section-heading h2{margin:20px 0}.section-heading>p{max-width:620px;font-size:15px}
+.pain-grid{display:grid;grid-template-columns:repeat(3,minmax(0,1fr));gap:24px;padding-top:0;padding-bottom:65px}
+.pain-grid article{border-top:1px solid #a6b29a;padding-top:25px}.pain-grid article>span{font-size:10px;letter-spacing:1.5px}.pain-grid h3{font-family:var(--serif);font-weight:400;font-size:28px;line-height:1.2;margin:20px 0 15px}.pain-grid p{font-size:14px}.pain-grid b{display:block;margin-top:20px;font-size:12px;line-height:1.7;font-weight:600}
+.use-cases{padding-top:50px}.case-grid{display:grid;grid-template-columns:repeat(2,minmax(0,1fr));gap:22px}.case-grid article{background:#eeefe7;border:1px solid #e0e4d7;border-radius:18px;padding:35px;display:flex;flex-direction:column;align-items:flex-start}.case-grid article:nth-child(2){background:#e7ecdb}.case-icon{font-size:36px;margin-bottom:26px;color:#6c8259}.case-grid h3{font-family:var(--serif);font-weight:400;font-size:32px;letter-spacing:-.7px;line-height:1.15;margin:20px 0}.case-grid p{font-size:14px}.case-result{border-top:1px solid #cad1bf;margin-top:24px;padding:20px 0;flex:1}.case-result>span{font-size:9px;letter-spacing:1.4px;font-weight:600}.case-result p{margin-top:10px;color:#42543a}.case-grid a{font-size:12px;text-decoration:underline;text-underline-offset:5px;line-height:1.7;padding:8px 0}.case-wide{grid-column:1/-1}.case-wide p{max-width:800px}.how{border-top:1px solid var(--line)}.how-grid{list-style:none;padding:0;display:grid;grid-template-columns:repeat(3,minmax(0,1fr));gap:35px}.how-grid li>span{display:grid;place-items:center;background:var(--lime);height:44px;width:44px;border-radius:50%;font-size:13px}.how-grid h3{font-family:var(--serif);font-weight:400;font-size:27px;margin:22px 0 14px}.how-grid p{font-size:14px}.experience-copy>p{max-width:none;font-size:14px}.app-demo{transform:none;min-width:0}.source-fragment{border-left:2px solid #aab994;padding:0 0 0 14px;margin:20px 0}.source-fragment blockquote{font-size:12px;line-height:1.85;margin:10px 0;color:#53644a}.demo-tabs{gap:16px}.demo-tabs button{font-size:11px;min-height:44px;line-height:1.5}.demo-content{min-height:260px}.demo-content p,.demo-content ul{font-size:13px}.demo-content .demo-benefit{border-radius:9px;background:#edf0e4;padding:12px;font-size:12px;color:#3c5132}.day-section{max-width:none;background:var(--ink);color:var(--paper)}.day-section .section-heading{max-width:900px}.day-section .eyebrow{color:#cad9b1}.day-section em{color:#c6d9a4}.day-grid{display:grid;grid-template-columns:repeat(3,minmax(0,1fr));gap:38px}.day-grid time{display:block;font-family:var(--serif);font-size:36px;color:#c6d9a4;border-bottom:1px solid #63755b;padding-bottom:20px;margin-bottom:24px}.day-grid h3{font-size:18px;font-weight:500;margin-bottom:14px}.day-grid p{color:#d2d8cc;font-size:14px}.section-caption{font-size:11px;margin-top:32px;line-height:1.8;max-width:800px}.day-section .section-caption{color:#c3cdbb}.comparison-grid{display:grid;grid-template-columns:1fr 1fr;gap:25px}.comparison-grid article{padding:30px;border:1px solid var(--line);border-radius:16px}.comparison-grid article:last-child{background:#e8ecdf}.comparison-grid h3{font-family:var(--serif);font-weight:400;font-size:30px;margin:20px 0}.comparison-grid ul{padding-left:20px;font-size:14px;line-height:2;color:#56634f}.privacy{padding-top:30px}.experience{gap:6%}.scenario{font-size:13px}.nav nav{gap:22px}
+@media(max-width:1000px){.nav nav{gap:14px;font-size:10px}.case-grid article{padding:26px}.experience{grid-template-columns:1fr 1.15fr;gap:4%}.demo-tabs{gap:10px}.hero-copy>p{font-size:14px}}
+@media(max-width:700px){.hero h1{font-size:clamp(44px,10.8vw,66px)}.hero-art{min-height:400px}.pain-grid,.case-grid,.how-grid,.day-grid,.comparison-grid,.experience{grid-template-columns:1fr}.pain-grid{padding-top:0;gap:30px}.case-wide{grid-column:auto}.case-grid h3{font-size:29px}.case-grid article{padding:26px}.section-heading h2{font-size:39px}.section-heading>p{font-size:14px}.how-grid{gap:30px}.how-grid h3{margin-top:16px}.day-grid{gap:32px}.day-grid time{padding-bottom:12px;margin-bottom:18px}.demo-content{min-height:290px}.demo-tabs button{font-size:10px}.app-demo{padding:17px}.nav nav{font-size:14px}.source-fragment blockquote{font-size:12px}.floating-note{font-size:11px;right:18px}.floating-note small{font-size:8px}.art-label{font-size:7px;max-width:200px}.hero-note{font-size:10px}.case-result p{font-size:14px}.comparison-grid article{padding:24px}.day-section .section-heading h2{font-size:39px}.privacy{padding-top:40px}}

diff --git a/index.html b/index.html
@@ -408,9 +408,9 @@
   <section aria-labelledby="luma-promo-title" style="padding:60px 6%;background:#e8ecdf;color:#263a30">
     <div style="max-width:1100px;margin:auto">
       <p style="font-size:11px;letter-spacing:2px;margin-bottom:18px">LEDEXSOFT LAB · PROTOTIPO EN DESARROLLO</p>
-      <h2 id="luma-promo-title" style="font-family:Fraunces,Georgia,serif;font-size:clamp(32px,5vw,62px);font-weight:400;line-height:1.1;margin-bottom:20px">Luma. Quédate con el momento.</h2>
-      <p style="max-width:570px;line-height:1.8;margin-bottom:24px">Una nueva idea de memoria personal: conversaciones, ideas y próximos pasos. Descubre el asistente que estamos imaginando.</p>
-      <a href="luma.html" style="display:inline-block;padding:15px 25px;background:#263a30;color:#fff;border-radius:30px;font-size:13px">Explorar Luma ↗</a>
+      <h2 id="luma-promo-title" style="font-family:Fraunces,Georgia,serif;font-size:clamp(32px,5vw,62px);font-weight:400;line-height:1.1;margin-bottom:20px">Luma. Menos «¿qué habíamos acordado?».</h2>
+      <p style="max-width:570px;line-height:1.8;margin-bottom:24px">Lo que pidió un cliente. La tarea que salió de una reunión. La idea que apareció caminando. Descubre cómo nuestro asistente de memoria en desarrollo busca convertir conversaciones en respuestas y próximos pasos.</p>
+      <a href="luma.html" style="display:inline-block;padding:15px 25px;background:#263a30;color:#fff;border-radius:30px;font-size:13px">Ver Luma en el día a día ↗</a>
     </div>
   </section>
 

diff --git a/README.md b/README.md
@@ -45,3 +45,7 @@ GitHub Pages sirve desde `main` (raíz). Para publicar un cambio: commit + push 
 `luma.html`, `css/luma.css` y `js/luma.js`: página pública conceptual del asistente personal Luma. Incluye una ilustración CSS original del wearable y una demo local de tres conversaciones ficticias con resúmenes y tareas. No captura audio ni utiliza servicios de IA. El contacto abre el correo; no existe lista de espera ni venta. Accesos desde la portada, el panel de aplicaciones y el pie. Imagen social: `images/luma-social.png`.
 
 Referencia de categoría: https://www.omi.me/ (voz, memoria y tareas). Identidad, textos e ilustración propios; no implica afiliación ni incorpora código o recursos de Omi.
+
+### Presentación de utilidad de Luma
+
+La página presenta problemas cotidianos, cinco casos de uso (reuniones, clientes, estudio, pendientes personales e ideas), el flujo de captura/revisión/consulta y una jornada ilustrativa. Cada caso enlaza a su conversación en la demo. Los cinco ejemplos tienen un fragmento fuente, resumen, tareas y pregunta con respuesta preparada (15 estados). Los resultados distinguen acuerdos de propuestas y explicitan cuándo no se conocen responsables. La demo sigue siendo local: no graba, no hace consultas de IA ni ejecuta tareas. Mantener esta distinción al actualizar textos. La portada comunica los mismos beneficios concretos.
